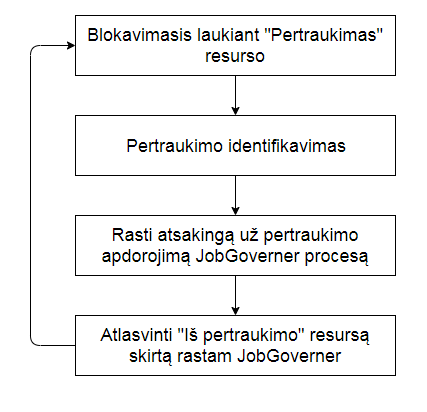
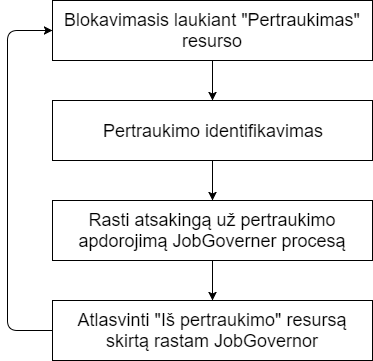
Fix spelling mistakes, change image scaling, remove image background

diff --git a/os_spec.tex b/os_spec.tex
@@ -138,7 +138,9 @@
               \item \textbf{Sustabdytas} - procesą sustabdė kažkuris kitas procesas
           \end{itemize}
       \subsubsection{Procesų būsenų kaita}
-        \includegraphics[width=\textwidth]{Process_state}
+        \begin{center}
+          \includegraphics[scale=0.7]{Process_state}
+        \end{center}
         \begin{enumerate}
           \item Vykdomas procesas negavo prašomo resurso
           \item Iš vykdomo proceso sistema atima procesorių dėl kokios nors kitos priežasties
@@ -153,25 +155,25 @@
       \subsection{Procesų kūrimas}
       Procesai yra skirstomi į sisteminius ir vartotojo. Sisteminiai procesai yra sukuriami sistemos darbo pradžioje. Juos sukuria procesas \textbf{StartStop}. Vartotojo procesai yra sukuriami sisteminių procesų. Bendra procesų kūrimo schema:
       \begin{center}
-        \includegraphics[scale=0.65]{Process_creation}
+        \includegraphics[scale=0.5]{Process_creation}
       \end{center}
       \subsection{Vartotojo programos patekimas į sistemą}
         Kol vartotojo programa iš baitų išorinėje atmintyje tampa procesu operacinėje sistemoje, jai tenka pereiti kelis etapus. Visų pirma yra kviečiamas procesas Loader, kuris iš išorinės atminties perskaito užduoties programą, kurią konvertuoja į procesoriui suprantamą formatą ir siunčia pranešimą procesui Main, kuris sukuria po naują JobGovernor procesą kiekvienai vartojo užduočiai. Galiausiai JobGovernor sukuria VirtualMachine procesą, kuris jau gali vykdyti vartojo programą.
         \begin{center}
-          \includegraphics[scale=1]{Program_load}
+          \includegraphics[scale=0.5]{Program_load}
         \end{center}
 
       \subsection{Procesų veikimas}
         \subsubsection{StartStop}
           StartStop yra pirmas procesas, kuris atsiranda sistemoje, vos tik ją paleidus. Jo paskirtis yra sukurti visus kitus sisteminius procesus bei resursus kurie leistų vykdyti operacinės sistemos darbą. Atlikęs savo užduotį StartStop procesas užsiblokuoja laukdamas "OS pabaiga" resurso, kuris bus atlaisvintas tik tada, kai operacinė sistema norės pabaigti savo darbą, taigi, beveik visą OS veikimo trukmę, procesas StartStop bus užsiblokavęs. Kai galiausiai jis atsiblokuos sulaukęs "OS pabaiga" resurso, jis sunaikins savo sukurtus sisteminius procesus bei resursus ir operacinės sistemos darbas bus baigtas.
           \begin{center}
-            \includegraphics[scale=1]{StartStop}
+            \includegraphics[scale=0.5]{StartStop}
           \end{center}
 
       \subsubsection{Loader}
         Procesas Loader yra svarbiausias procesas vartojo užduoties patekimo į operacinę sistemą schemoje. Jis pradeda savo darbą laukdamas "Iš vartotojo sąsajos" resurso, kuris bus atlaisvintas tuomet, kai operacinės sistemos vartotojas nurodys, kurią programą jis nori įvykdyti. Tuomet bus atlaisvintas Loader procesui reikalingas resursas ir vartotojo programa bus nuskaityta iš išorinės atminties. Analizuodamas nuskaitytus duomenis, procesas Loader priima sprendimą, kiek vartotojo atminties resursų reikės ir blokuojasi laukdamas, kol resursai bus gauti. Gavęs vartotojo atminties resursą, Loader perkels vartotojo programą į nurodytą atminties vietą ir pasiųs pranešimą procesui Main.
         \begin{center}
-          \includegraphics[scale=1]{Loader}
+          \includegraphics[scale=0.5]{Loader}
         \end{center}
       \subsubsection{Main}
         Procesas Main darbą pradeda užsiblokavęs ir laukdamas, kol gaus pranešimą iš "Užduotis vartotojo atmintyje". Šį pranešimą procesas Main gali gauti dviem atvejais:
@@ -180,17 +182,17 @@
           \item Iš proceso JobGovernor. Šis pranešimas turėtų būti fiktyvus ir reikšti, kad VirtualMachine procesas, už kurį buvo atsakingas resursą atlaisvinęs JobGovernor procesas, baigė savo darbą ir JobGovernor turi būti sunaikintas.
         \end{enumerate}
         \begin{center}
-          \includegraphics[scale=0.65]{Main}
+          \includegraphics[scale=0.5]{Main}
         \end{center}
       \subsubsection{Interrupt}
         Procesas Interrupt pradeda darbą laukdamas "Pertraukimas" resurso. Šis resursas atlaisvinamas kai VirtualMachine, vykdydamas vartojo programa susiduria su situacija, kurios pats negali apdoroti. Tuomet Interrupt procesas nustato, kokia situacija kilo vykstant VirtualMachine procesui, suranda kuris JobGovernor procesas yra atsakingas už VirtualMachine, kuriame kilo pertraukimas ir būtent tam JobGovernor procesui perduoda "Iš pertraukimo" pranešimą. Taigi, šio proceso paskirtis, leisti VirtualMachine procesui bendrauti su JobGovernor procesu.
         \begin{center}
-          \includegraphics[scale=1]{Interrupt}
+          \includegraphics[scale=0.5]{Interrupt}
         \end{center}
       \subsubsection{ChannelDevice}
         ChannelDevice procesas leidžia kitiems procesams apsikeisti duomenimis tarp įrenginių ir realios mašinos atminties. Kadangi realios mašinos kanalų įrenginys vienu metu gali atlikti vieną duomenų perdavimą, mes turime užtikrinti, kad proceso ChannelDevice vienu metu nenaudos keli procesai. Todėl ChannelDevice pradeda darbą atlaisvindamas "Channel Device" resursą ir laukdamas, kol gaus "Data Transfer" pranešimą. Šį pranešimą kanalų įrenginiui turėtų atsiųsti procesas, kuris prieš tai blokavosi laukdamas "Channel Device" resurso ir jį gavęs pasiuntė "Data Transfer" pranešimą. Su "Data Transfer" pranešimu ChannelDevice procesas gauna visą reikalingą informaciją, kad galėtų atlikti duomenų persiuntimą per kanalų įrenginį. Tada nurodo kanalų įrenginiui ką daryti ir pabaigęs savo darbą atlaisviną "From Channel Device" pranešimą, kurio turėtų laukti duomenų perdavimą iniciavęs procesas.
         \begin{center}
-          \includegraphics[scale=1]{ChannelDevice}
+          \includegraphics[scale=0.5]{ChannelDevice}
         \end{center}
 
       \subsubsection{JobGovernor}
@@ -202,7 +204,7 @@
       \subsubsection{VirtualMachine}
         Šis procesas yra skirtas vartotojo programos vykdymui.
         \begin{center}
-          \includegraphics[scale=1]{VirtualMachine}
+          \includegraphics[scale=0.5]{VirtualMachine}
         \end{center}
 
     \section{Resursai}
